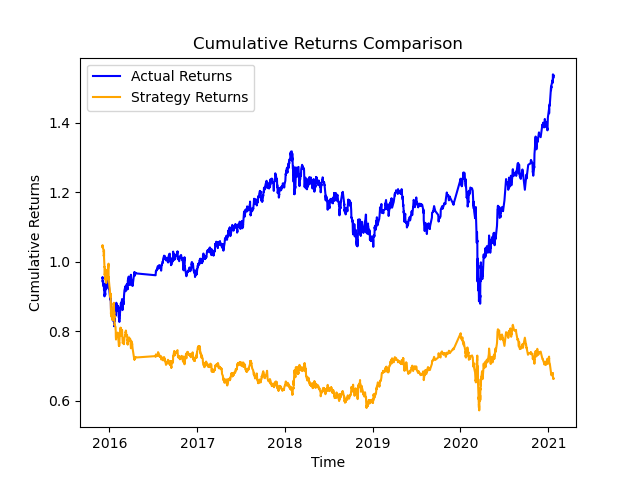
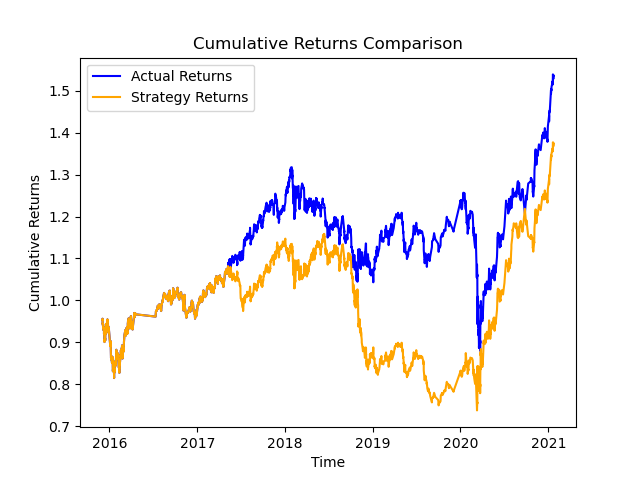
Update the plots and analysis of the two tunings in the README.md file after mistake in code been corrected.

diff --git a/README.md b/README.md
@@ -45,7 +45,7 @@ The cumulative return plot of the trading algorithm serving as baseline obtained
 
 <img src="Images/cumulative_returns_plot_baseline.png" alt="Baseline Plot" width="400" height="300">
 
-The strategy returns underperforms the actual returns between the third quarter of 2017 until the third quarter of 2018. Then it starts outperforming, and it does so consistently. The underperformance during the initial period could be due to the trading algorithm adapting to new market conditions. It might take time for the model to adjust its signals to align with the changing behavior of the asset. Also, the period of underperformance could coincide with overfitting or over-optimization of the strategy to specific historical data. The strategy might have been tailored too closely to the historical data during that period, leading to poor performance on new data.    
+The strategy returns underperforms the actual returns between the third quarter of 2017 until the third quarter of 2018. Then it starts outperforming, and it does so consistently. The underperformance during the initial period could be due to the trading algorithm adapting to new market conditions. It might take time for the model to adjust its signals to align with the changing behavior of the asset. Also, the period of underperformance could coincide with overfitting or over-optimization of the strategy to specific historical data.    
 
 - First refinement was increasing the training window as follows:
 
@@ -60,7 +60,7 @@ Cumulative return plot:
 
 <img src="Images/cumulative_returns_plot_tune1.png" alt="Classification Report - tune 1" width="400" height="300">
 
-Increasing the training window to 8 months made the trading algorithm perform worse. One possible reason is overfitting. With a larger training window, the model might start capturing not only the genuine market trends but also short-term fluctuations, irregularities, or noise. As a result, the model might become overly sensitive to the specific historical data in the training window, leading to overfitting.
+Increasing the training window to 8 months made the trading algorithm perform worse. It underperforms the actual returns starting on mid-2017. One possible reason is overfitting. With a larger training window, the model might start capturing not only the genuine market trends but also short-term fluctuations, irregularities, or noise. As a result, the model might become overly sensitive to the specific historical data in the training window, leading to overfitting.
 
 - Second tuning: Tune the trading algorithm by adjusting the SMA input features
 
@@ -75,10 +75,16 @@ Cumulative return plot:
 
 <img src="Images/cumulative_returns_plot_tune2.png" alt="Classification Report - tune 1" width="400" height="300">
 
-Increasing the SMA short window made the trading algorithm perfom slightly better that the original. The accuracy was slightly higher, 0.56(compared to 0.55 of the original). This could be due to the longer SMA short window smoothing out short-term price fluctuations and providing a more stable trend. This could potentially help the model differentiate between actual trends and noise, resulting in more reliable signals.
- With a longer SMA window, the trading algorithm might be less sensitive to minor price movements that could lead to false signals. This could help the algorithm avoid making unnecessary trades based on short-term market fluctuations.
+Increasing the SMA short window made the trading algorithm perfom worse. The two lines (actual returns and strategy returns) are in sync suggests that the algorithm has not been effective in generating profitable trading decisions. This scenario is an indication that the algorithm's buy signals are not aligned with the actual market movements and price trends.
 
-The set of parameters that best improved the trading algorithm returns was increasing the SMA short window.
+Precision 0.00, Recall 0.00: Precision and recall of 0.00 for class -1 (Sell) suggests that the model is not effectively identifying and predicting this class. This means that when the model predicts a sell signal, it rarely correctly predicts an actual sell event.
+
+Precision 0.56, Recall 1.00: Precision of 0.56 for class 1 (Buy) indicates that when the model predicts a buy signal, it is correct about 56% of the time. Recall of 1.00 means that the model is correctly identifying all actual buy events.
+
+This could happen if the model predictes all signals as 1(buy).
+Increasing the SMA short window might have smoothed out signals to the point where certain short-term trends are lost. The longer window might not capture quick fluctuations, leading to missed sell signals.. Also, since our dataset is imbalanced (e.g., fewer sell signals compared to buy signals), the model might be biased towards the majority class (buy signals), affecting precision and recall metrics.
+
+None of the set of parameters improved the trading algorithm returns. The original trading algorithm is the best.
 
 ---
 
